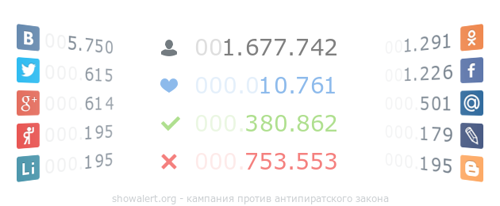
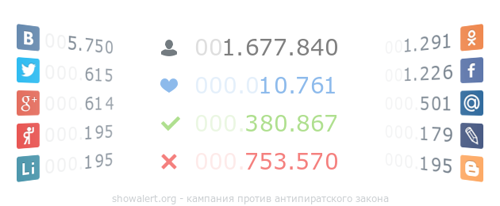
update statistics files for plugins

Changed region(s): [[0.57, 0.1748, 0.69, 0.2913], [0.6, 0.7282, 0.69, 0.8447], [0.63, 0.5534, 0.69, 0.6408]]

diff --git a/votes.js b/votes.js
@@ -1,1 +1,1 @@
-window.lk.votes(32233)
+window.lk.votes(32245)
